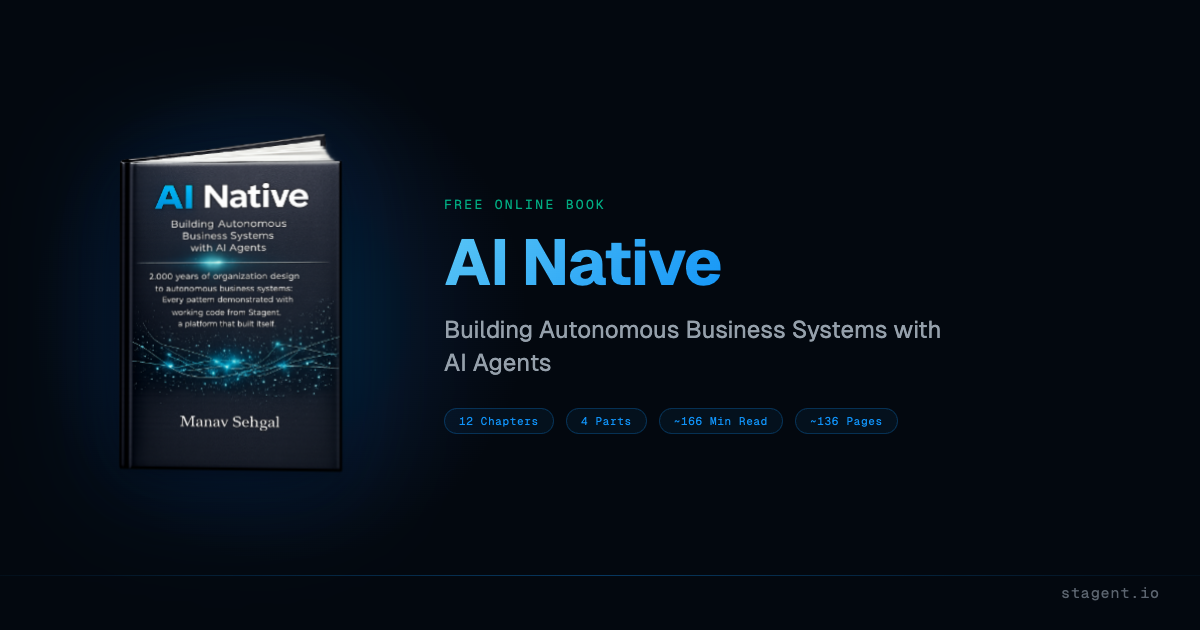
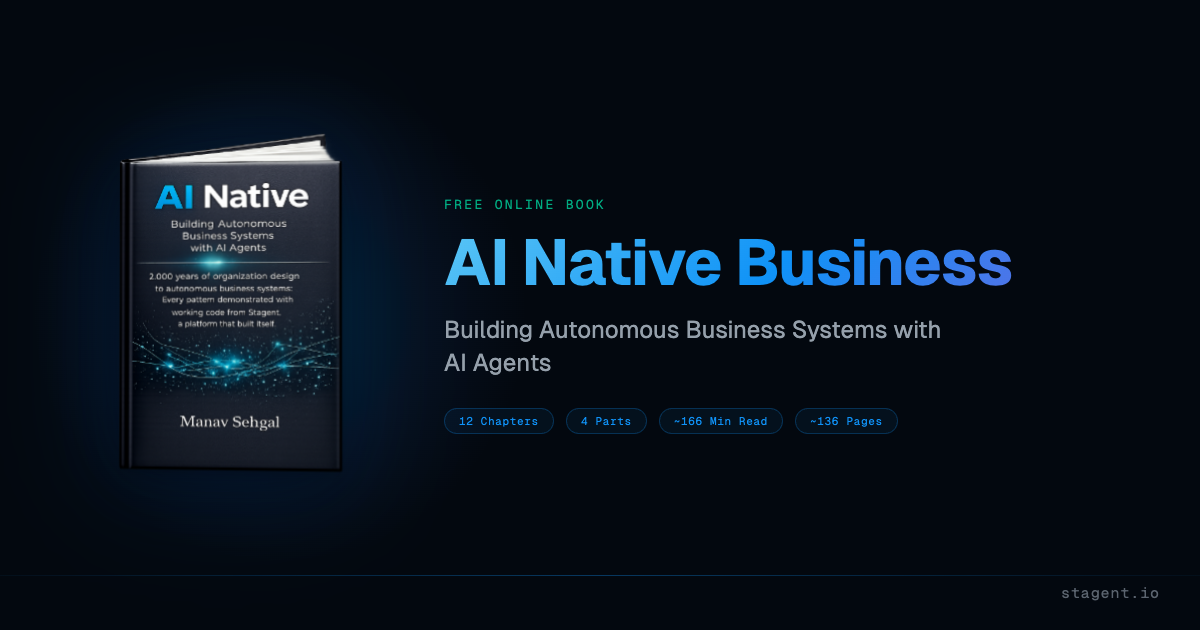
feat(book): rename book to "AI Native Business" across site and skills (#1)
Updates the book title in the visible hero, notification bar, book cover
alts, JSON-LD schemas, OG image text, and chapter reader nav so the book
is consistently branded "AI Native Business: Building Autonomous Business
Systems with AI Agents". Also updates the apply-book-update skill so
future syncs preserve the new title.

The book cover PNG (public/book/images/ai-native-book-manav-sehgal.png)
needs to be replaced by the user with the updated artwork; the OG image
will then need regeneration via `npm run build:og`.

Changed region(s): [[0.6167, 0.3619, 0.8633, 0.4524]]

diff --git a/src/components/book/book-reader.tsx b/src/components/book/book-reader.tsx
@@ -383,7 +383,7 @@ export function BookReader({
             className="text-xs text-text-muted hover:text-primary transition-colors font-mono tracking-wide no-underline hidden sm:inline-flex items-center gap-1"
           >
             <BookOpen className="h-3.5 w-3.5" />
-            <span className="hidden md:inline">AI Native</span>
+            <span className="hidden md:inline">AI Native Business</span>
           </a>
           <span className="text-border hidden sm:inline">|</span>
           <div className="hidden sm:block">

diff --git a/.claude/skills/apply-book-update/SKILL.md b/.claude/skills/apply-book-update/SKILL.md
@@ -1,11 +1,11 @@
 ---
 name: apply-book-update
-description: Sync book content from the Stagent product to the stagent.io website. Compares chapter markdown files and images, copies changed content, updates code files if structure changed, and verifies the build. Use when the user says "update book", "sync book", "refresh book content", "apply book update", "sync book chapters", "update book content", "book content is stale", "new book chapters", "refresh book from product", "copy book chapters", "update book images", or any request to update, sync, or refresh the AI Native book content on the website from the source product repository. Also trigger after "apply product release" if the user mentions book content.
+description: Sync book content from the Stagent product to the stagent.io website. Compares chapter markdown files and images, copies changed content, updates code files if structure changed, and verifies the build. Use when the user says "update book", "sync book", "refresh book content", "apply book update", "sync book chapters", "update book content", "book content is stale", "new book chapters", "refresh book from product", "copy book chapters", "update book images", or any request to update, sync, or refresh the AI Native Business book content on the website from the source product repository. Also trigger after "apply product release" if the user mentions book content.
 ---
 
 # Apply Book Update Skill
 
-Syncs the "AI Native" book content (chapter markdown files + images) from the Stagent product repository to the stagent.io marketing website. The book lives as a React island reader at `/book/[chapter-slug]` and content is parsed at Astro build time. The current chapter count is whatever is in the Chapter Manifest below — most counts elsewhere in the codebase are derived dynamically from `CHAPTERS.length`.
+Syncs the "AI Native Business" book content (chapter markdown files + images) from the Stagent product repository to the stagent.io marketing website. The book lives as a React island reader at `/book/[chapter-slug]` and content is parsed at Astro build time. The current chapter count is whatever is in the Chapter Manifest below — most counts elsewhere in the codebase are derived dynamically from `CHAPTERS.length`.
 
 ## Attribution & License Architecture
 